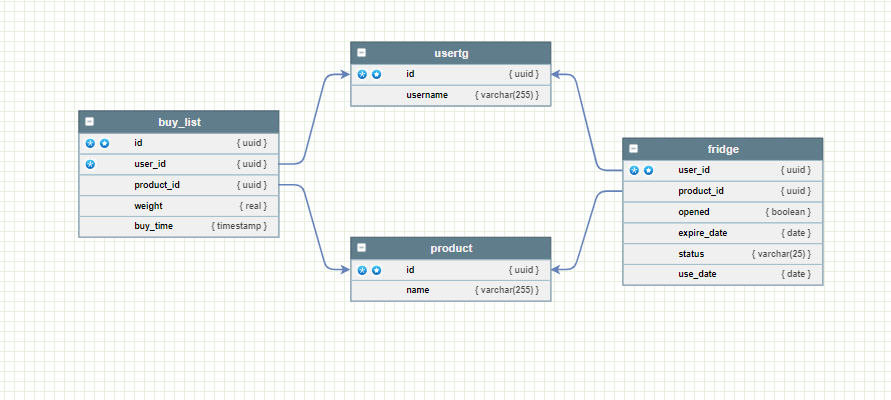
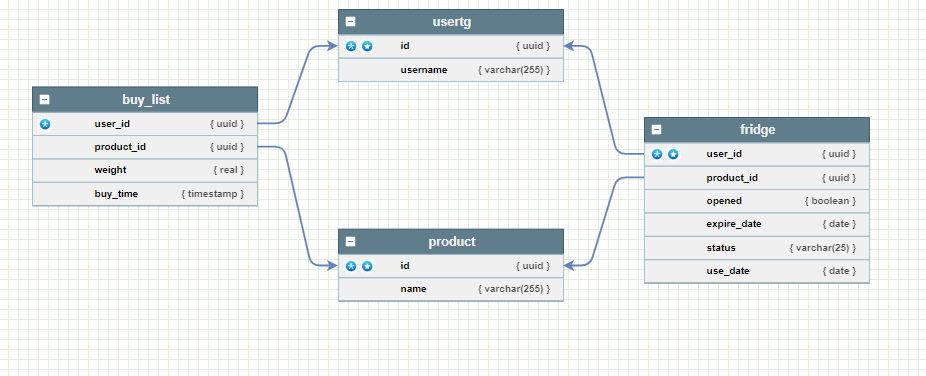
Add product method added, fsm added, db restructed

Changed region(s): [[0.0, 0.0, 1.0, 1.0]]

diff --git a/buy_list/bot/bot.go b/buy_list/bot/bot.go
@@ -6,6 +6,8 @@ import (
 	"fmt"
 	"io/ioutil"
 	"log"
+	"strconv"
+	"time"
 
 	tgbotapi "github.com/go-telegram-bot-api/telegram-bot-api/v5"
 )
@@ -29,12 +31,15 @@ func StartBot() {
 
 	s := GetConn()
 
+	GlobalState := StateStart
+
+	p := store.Product{}
+
 	for update := range updates {
 		if update.Message == nil {
 			continue
 		}
-
-		log.Printf("[%s] %s", update.Message.From.UserName, update.Message.Text)
+		//log.Printf("[%s] %s", update.Message.From.UserName, update.Message.Text)
 
 		if update.Message.IsCommand() {
 			msg := tgbotapi.NewMessage(update.Message.Chat.ID, update.Message.Text)
@@ -43,11 +48,13 @@ func StartBot() {
 			case "start":
 				msg.ReplyMarkup = numericKeyboard
 				msg.Text = "Привет! Я бот, который может управлять вашими покупками и мониторить срок годности продуктов."
-				s.AddUsertg(store.Usertg{
+				s.AddUsertg(&store.Usertg{
 					Username: update.Message.From.UserName,
 				})
 			case "test":
 				msg.Text = "Test command worked"
+			case "canse":
+				GlobalState = StateStart
 			default:
 				msg.Text = "Неверная команда :("
 			}
@@ -58,20 +65,60 @@ func StartBot() {
 		} else {
 			msg := tgbotapi.NewMessage(update.Message.Chat.ID, update.Message.Text)
 			msg.ReplyToMessageID = update.Message.MessageID
-			switch update.Message.Text {
-			case numericKeyboard.Keyboard[0][0].Text:
-				msg.Text = "Введите название продукта"
-				msg.ReplyMarkup = tgbotapi.NewRemoveKeyboard(true)
+			switch GlobalState {
 
-			case "open":
-				msg.ReplyMarkup = numericKeyboard
-			case "close":
-				msg.ReplyMarkup = tgbotapi.NewRemoveKeyboard(true)
+			//start menu
+			case StateStart:
+				switch update.Message.Text {
+				case numericKeyboard.Keyboard[0][0].Text:
+					GlobalState = StateAddBuyList
+					p.State = 0
+					msg.ReplyMarkup = tgbotapi.NewRemoveKeyboard(true)
+					p.UserId = s.GetUserid(update.Message.From.UserName)
+					// p.BuyListId, p.UserId = s.CreateNewBuyList(update.Message.From.UserName)
+					msg.Text = "Введите название продукта"
+				case "open":
+					msg.ReplyMarkup = numericKeyboard
+				case "close":
+					msg.ReplyMarkup = tgbotapi.NewRemoveKeyboard(true)
+				}
+
+			//adding to buy list
+			case StateAddBuyList:
+				switch p.State {
+				case 0:
+					p.Name = update.Message.Text
+					p.ProductId = s.GetProductId(p.Name)
+					msg.Text = "Введите вес/количество"
+					p.State = 1
+				case 1:
+					if p.Weight, err = strconv.ParseFloat(update.Message.Text, 64); err != nil {
+						msg.Text = "Неверный формат"
+					} else {
+						msg.Text = "Введите когда время покупки (YYYY-MM-DD HH:MM)"
+						p.State = 2
+					}
+				case 2:
+					ts := update.Message.Text + ":00"
+					if _, err := time.Parse("2006-01-02 15:04:05.999", ts); err != nil {
+						msg.Text = "Неверный формат"
+					} else {
+						p.BuyDate = ts
+						s.AddProductToBuyList(&p)
+						msg.Text = "Товар добавлен в список покупок"
+						GlobalState = StateStart
+						msg.ReplyMarkup = numericKeyboard
+					}
+
+				}
+
+			case StateAddFridge:
 			}
 
 			if _, err := bot.Send(msg); err != nil {
 				log.Fatal(err)
 			}
+
 		}
 	}
 }

diff --git a/buy_list/bot/store/store.go b/buy_list/bot/store/store.go
@@ -15,10 +15,16 @@ type Store struct {
 	conn *pgx.Conn
 }
 
-type Product struct {
-	//	UUID string
-	Name string
+type Product struct { // 0 - name ; 1 - weight ; 2 - buydate
+	UserId    string
+	ProductId string
+	State     int
+	Name      string
+	Weight    float64
+	BuyDate   string
 }
+
+//TODO inteface
 
 type Usertg struct {
 	//	UUID     string
@@ -42,15 +48,57 @@ func NewStore(connString string) *Store {
 	}
 }
 
-func (s *Store) AddUsertg(u Usertg) {
-	err := s.conn.QueryRow(context.Background(), `
+func (s *Store) AddUsertg(u *Usertg) {
+	rows, err := s.conn.Query(context.Background(), `
 	INSERT INTO usertg(username)
 	VALUES ($1);
 	`, u.Username)
+	defer rows.Close()
 	if err != nil {
-		var pgErr
+		//TODO check error types
+		//var pgErr
 
 		Warning := log.New(os.Stdout, "\u001b[33mWARNING: \u001B[0m", log.LstdFlags|log.Lshortfile)
 		Warning.Println("Username already exists")
 	}
+}
+
+func (s *Store) GetUserid(username string) string {
+	var id string
+	err := s.conn.QueryRow(context.Background(), `
+	SELECT id::text FROM usertg WHERE username = $1;
+	`, username).Scan(&id)
+	if err != nil {
+		var Error = log.New(os.Stdout, "\u001b[31mERROR: \u001b[0m", log.LstdFlags|log.Lshortfile)
+		Error.Println("Get userid error ", err)
+	}
+
+	return id
+}
+
+func (s *Store) GetProductId(productName string) string {
+	var id string
+	err := s.conn.QueryRow(context.Background(), `
+	INSERT INTO product(name)
+	VALUES($1) RETURNING id::text;
+	`, productName).Scan(&id)
+	if err != nil {
+		var Error = log.New(os.Stdout, "\u001b[31mERROR: \u001b[0m", log.LstdFlags|log.Lshortfile)
+		Error.Println("Get product id error ", err)
+	}
+
+	return id
+}
+
+func (s *Store) AddProductToBuyList(p *Product) {
+	rows, err := s.conn.Query(context.Background(), `
+	INSERT INTO buy_list
+	VALUES($1, $2, $3, $4)
+	`, p.UserId, p.ProductId, p.Weight, p.BuyDate)
+	rows.Close()
+	if err != nil {
+		var Error = log.New(os.Stdout, "\u001b[31mERROR: \u001b[0m", log.LstdFlags|log.Lshortfile)
+		Error.Println("Add product error ", err)
+	}
+
 }

diff --git a/buy_list/bot/data.go b/buy_list/bot/data.go
@@ -20,6 +20,18 @@ var numericKeyboard = tgbotapi.NewReplyKeyboard(
 	),
 )
 
+//global states of "fsm"
+const (
+	StateStart int = iota
+	StateAddBuyList
+	StateAddFridge
+	StateOpenProduct
+	StateFinalStatus
+	StateProductList
+	StateUsedProducts
+	StateStat
+)
+
 type TgBot struct {
 	Tkn string `json:"token"`
 }
@@ -30,9 +42,11 @@ const (
 	StateBuyDate
 )
 
-type Product struct { // 0 - name ; 1 - weight ; 2 - buydate
-	State   int
-	Name    string
-	Weight  float64
-	BuyDate string
+const (
+	StateFridgeProduct int = iota
+	StateFridgeDate
+)
+
+type Fridge struct {
+	State int
 }
